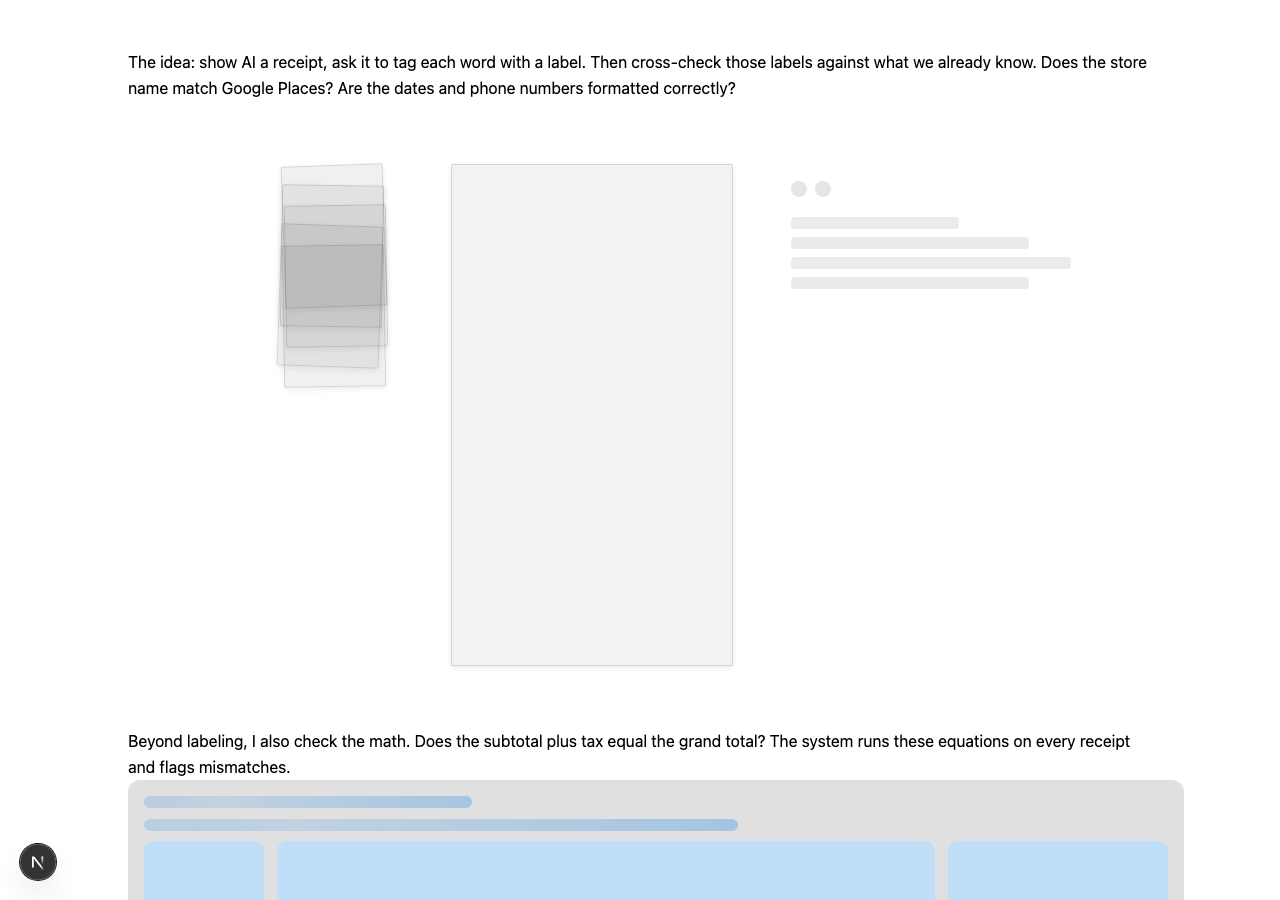
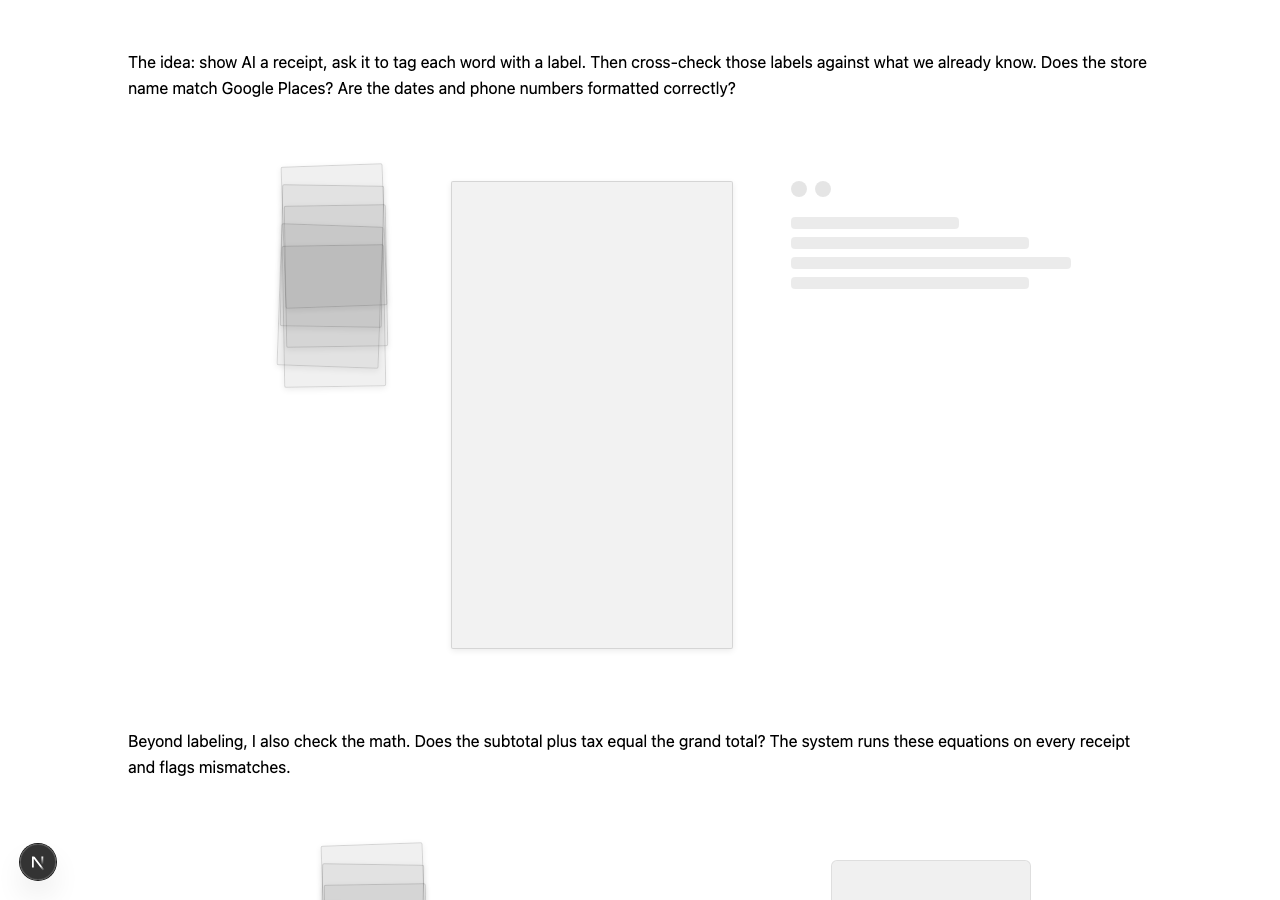
fix: center legend skeleton on mobile, fix receipt placeholder aspect ratio
- Use aspect-ratio: 3/5 for receipt placeholder instead of fixed height
  so it matches real receipt proportions on mobile
- Center pass dots and card lines on mobile via media query

Changed region(s): [[0.0938, 0.84, 0.9375, 1.0]]

diff --git a/portfolio/components/ui/Figures/ReceiptFlow/ReceiptFlowLoadingShell.module.css b/portfolio/components/ui/Figures/ReceiptFlow/ReceiptFlowLoadingShell.module.css
@@ -34,9 +34,7 @@
   position: relative;
   width: 100%;
   max-width: 280px;
-  height: 100%;
-  max-height: 500px;
-  min-height: 320px;
+  aspect-ratio: 3 / 5;
   border: 1px solid rgba(var(--text-color-rgb, 0, 0, 0), 0.12);
   background: rgba(var(--text-color-rgb, 0, 0, 0), 0.05);
   border-radius: 2px;
@@ -170,4 +168,26 @@
 .centerMessage.error {
   color: var(--color-red);
   opacity: 1;
+}
+
+/* Mobile: center the legend content when stacked vertically */
+@media (max-width: 768px) {
+  .legendSkeleton {
+    align-items: center;
+    width: 100%;
+  }
+
+  .legendWithin {
+    width: 100%;
+    max-width: 280px;
+    min-height: auto;
+  }
+
+  .passDotsSkeleton {
+    justify-content: center;
+  }
+
+  .cardBlockSkeleton {
+    width: 100%;
+  }
 }
